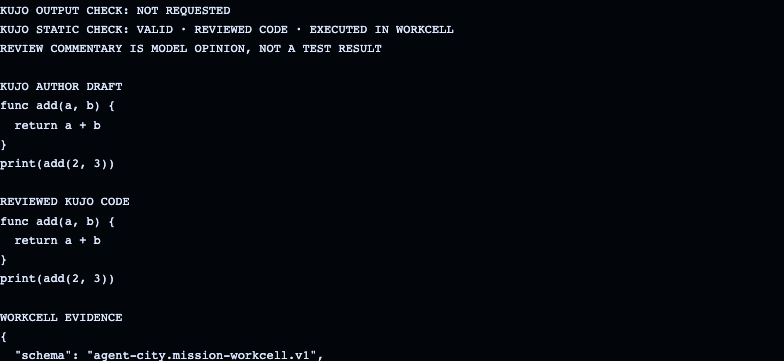
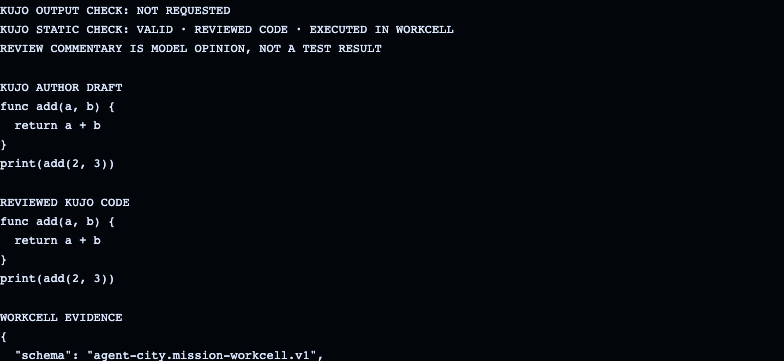
Verify project context continuity and telemetry privacy

Changed region(s): [[0.0, 0.2133, 0.1531, 0.3047], [0.0, 0.5485, 0.1837, 0.5789]]

diff --git a/scripts/profile-code-proof.ts b/scripts/profile-code-proof.ts
@@ -8,6 +8,10 @@ import { importCatalog, saveCatalog } from "../apps/runner/agent-catalog";
 import { portAvailable } from "./startup-checks";
 const root = resolve(import.meta.dirname, "..");
 const real = process.env.CITY_PROFILE_PROOF_REAL === "1";
+const projectProof = process.env.CITY_PROFILE_PROOF_PROJECT === "1";
+const projectText =
+  "PROJECT-CONTEXT-ACCEPTANCE-41: supplied source text, never telemetry";
+const projectReads: string[] = [];
 const kujo = process.env.CITY_PROFILE_PROOF_LANGUAGE === "kujo";
 const workcell = kujo && process.env.CITY_PROFILE_PROOF_WORKCELL === "1";
 const outputCheck =
@@ -31,6 +35,15 @@ const provider = createServer((req, res) => {
   req.on("end", () => {
     const data = JSON.parse(body);
     calls++;
+    if (projectProof) {
+      const project = data.messages.find(
+        (m: any) =>
+          typeof m.content === "string" &&
+          m.content.includes("User-selected project file snapshot"),
+      );
+      assert(project?.content.includes(projectText));
+      projectReads.push(project.content);
+    }
     const reviewer = data.messages.some(
       (m: any) => m.role === "system" && m.content.includes("# Code Reviewer"),
     );
@@ -111,6 +124,23 @@ try {
     async () => (await fetch(base + "/control/status")).json(),
     (v) => !!v.token,
   );
+  if (projectProof) {
+    const denied = await fetch(base + "/control/missions", {
+      method: "POST",
+      headers: {
+        Origin: "http://127.0.0.1:5178",
+        "Content-Type": "application/json",
+        "X-City-Command-Token": status.token,
+      },
+      body: JSON.stringify({
+        kind: "code",
+        prompt: "must not run",
+        projectFiles: [{ path: "../outside", content: "untrusted" }],
+      }),
+    });
+    assert.equal(denied.status, 400);
+    assert.equal(calls, 0);
+  }
   const contract = {
     exportName: "add",
     cases: [
@@ -131,6 +161,16 @@ try {
       body: JSON.stringify({
         kind: kujo ? "kujo" : "code",
         executeWorkcell: workcell,
+        ...(projectProof && !attempt
+          ? {
+              projectFiles: [
+                { path: "src/requirements.txt", content: projectText },
+              ],
+            }
+          : {}),
+        ...(projectProof && attempt
+          ? { parentMissionId: attempts[0].mission }
+          : {}),
         ...(outputCheck
           ? {
               expectedOutput: "5\n",
@@ -180,6 +220,17 @@ try {
       resolve(dir, kujo ? "reviewed.kujo" : "reviewed.mjs"),
       "utf8",
     );
+    if (projectProof) {
+      const snapshot = JSON.parse(
+        await readFile(resolve(dir, "project-context.json"), "utf8"),
+      );
+      assert.equal(snapshot.files[0].content, projectText);
+      const details = await (
+        await fetch(base + "/control/mission/" + job.id)
+      ).json();
+      assert.equal(details.projectFiles[0].sha256, snapshot.files[0].sha256);
+      assert(!JSON.stringify(details).includes(projectText));
+    }
     const events = (
       await readFile(
         resolve(runtime, `spool-profile-code-${job.id}.jsonl`),
@@ -189,6 +240,7 @@ try {
       .trim()
       .split("\n")
       .map((l) => JSON.parse(l));
+    if (projectProof) assert(!JSON.stringify(events).includes(projectText));
     const expected = real || repaired ? "passed" : "failed";
     if (kujo) {
       assert.equal(
@@ -324,15 +376,18 @@ try {
       : kujo
         ? "evidence/profile-kujo"
         : "evidence/profile-code",
-    outputCheck
-      ? real
-        ? "output-check-real"
-        : "output-check"
-      : real
-        ? "real"
-        : "fixture",
+    projectProof
+      ? "project-context"
+      : outputCheck
+        ? real
+          ? "output-check-real"
+          : "output-check"
+        : real
+          ? "real"
+          : "fixture",
   );
   await mkdir(out, { recursive: true });
+  if (projectProof && !real) assert.equal(projectReads.length, 4);
   let source: string | null = null;
   try {
     source = execFileSync("git", ["rev-parse", "HEAD"], {
@@ -368,6 +423,13 @@ try {
     attempts,
     priorFailureRetained: real && !outputCheck ? "fixture-tested" : true,
     privateEvidence: runtime,
+    ...(projectProof
+      ? {
+          projectReadCount: projectReads.length,
+          privateSnapshotsPreserved: true,
+          noProjectContentInTelemetry: true,
+        }
+      : {}),
   };
   await writeFile(
     resolve(out, "proof.json"),

diff --git a/scripts/workcell-browser-proof.ts b/scripts/workcell-browser-proof.ts
@@ -109,6 +109,13 @@ try {
   await page
     .getByLabel("Task", { exact: true })
     .fill("UI consent test; intercepted, no execution");
+  await page
+    .locator('[name="projectFiles"]')
+    .setInputFiles({
+      name: "brief.md",
+      mimeType: "text/plain",
+      buffer: Buffer.from("Selected task context only"),
+    });
   await consent.focus();
   await page.keyboard.press("Space");
   assert(await consent.isChecked());
@@ -129,6 +136,15 @@ try {
   );
   assert.equal(posted.executeWorkcell, true);
   assert.equal(posted.expectedOutput, "5\n");
+  assert.deepEqual(posted.projectFiles, [
+    { path: "brief.md", content: "Selected task context only" },
+  ]);
+  assert.equal(
+    await page
+      .locator('[name="projectFiles"]')
+      .evaluate((e: HTMLInputElement) => e.files?.length),
+    0,
+  );
   assert.equal(await outputCheck.isChecked(), false);
   await consent.check();
   await page.locator("[data-continue]").first().click();
@@ -151,6 +167,7 @@ try {
         cleanupVisible: true,
         keyboardConsent: true,
         explicitOutputCheckPostedAndReset: true,
+        selectedProjectFilesPostedAndReset: true,
         consentResetAfterSubmission: true,
         consentResetForContinuation: true,
         pageErrors: errors,
